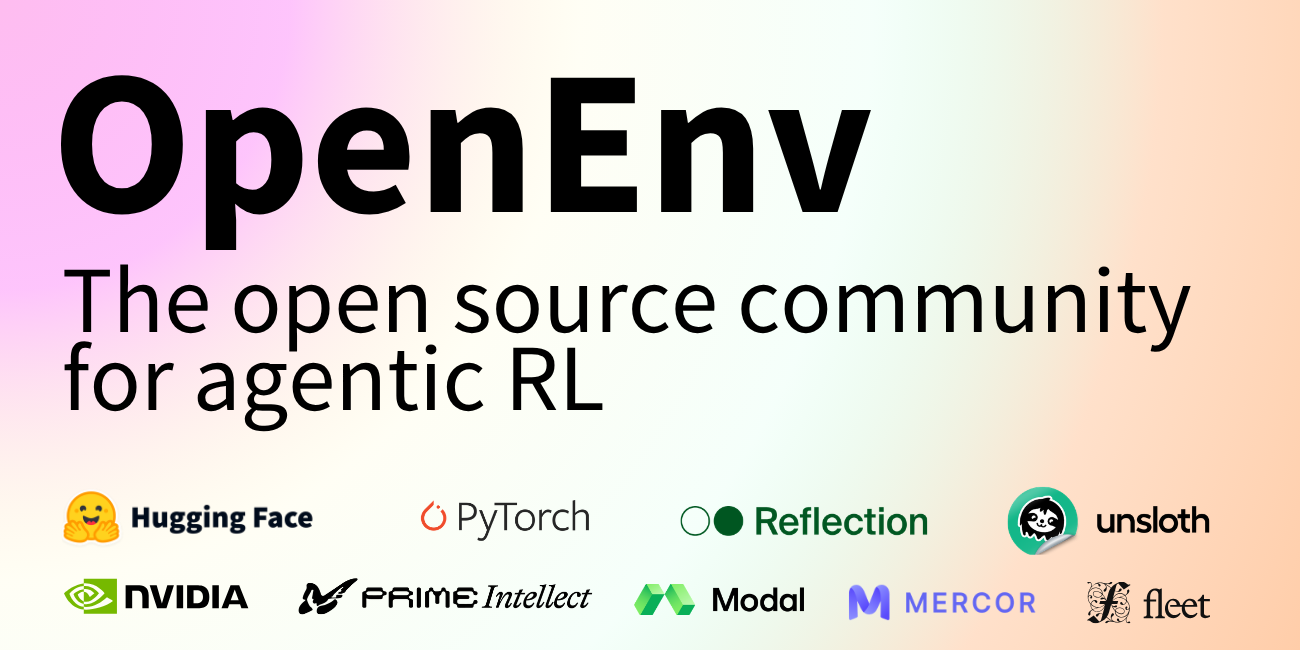
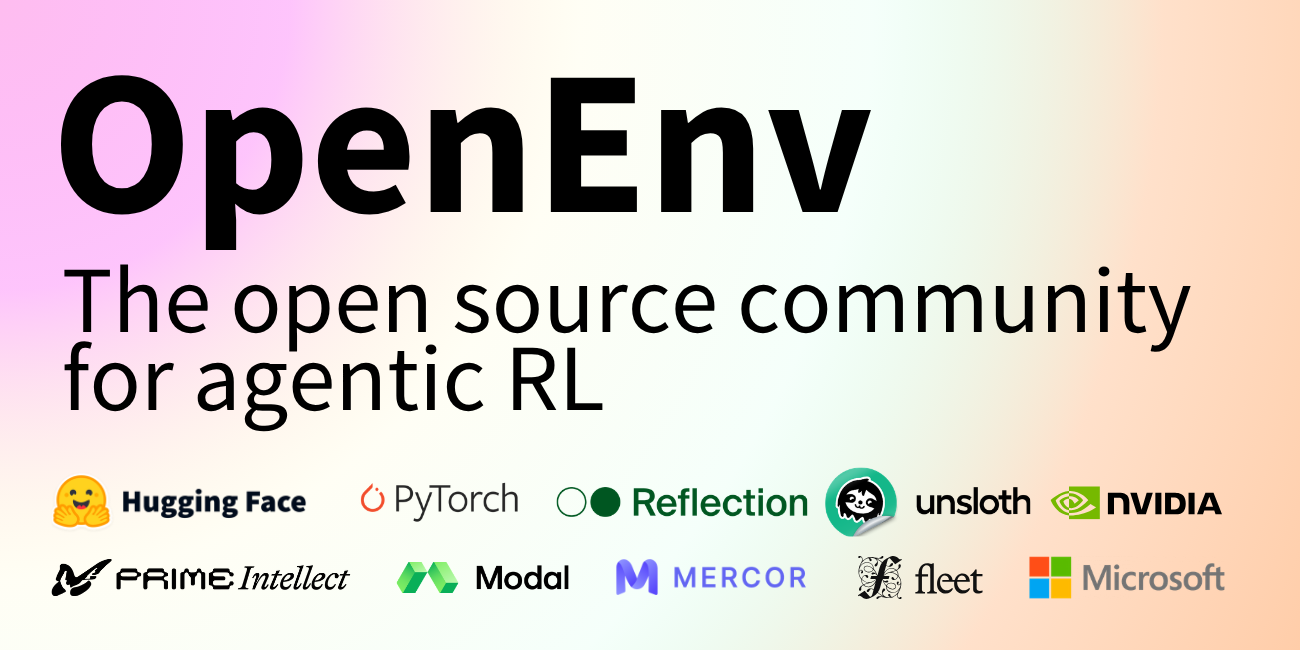
Add Microsoft to OpenEnv blog (#3421)
* add microsoft

* replace PR linkfix RFC section

* refine PRs

* update rfc7

* update image

Pull request: Add Microsoft to OpenEnv blog
This PR updates the OpenEnv Agentic RL blog post to include Microsoft in the coordinating committee and adds the corresponding author entry.

Changed region(s): [[0.0308, 0.7077, 0.9538, 0.9538]]

diff --git a/openenv-agentic-rl.md b/openenv-agentic-rl.md
@@ -12,6 +12,7 @@ authors:
 - user: cwing-nv
 - user: danielhanchen
 - user: andrewzhou
+- user: thegovind
 - user: shimmyshimmer
 - user: Hamid-Nazeri
 - user: Sanyam
@@ -27,7 +28,7 @@ authors:
 
 OpenEnv is a tool for creating an agentic execution environment like terminals, browsers, or anything an agent can interact with. And today, we’re excited to announce that OpenEnv is becoming even more open, to make the future of training agents open source.
 
-Starting today, OpenEnv will be coordinated by a committee that so far includes Meta-PyTorch, Reflection, Unsloth, Modal, Prime Intellect, Nvidia, Mercor, Fleet AI, and Hugging Face. `OpenEnv` now lives at [`huggingface/OpenEnv`](https://github.com/huggingface/OpenEnv)
+Starting today, OpenEnv will be coordinated by a committee that so far includes Meta-PyTorch, Reflection, Unsloth, Modal, Prime Intellect, Nvidia, Mercor, Fleet AI, Microsoft, and Hugging Face. `OpenEnv` now lives at [`huggingface/OpenEnv`](https://github.com/huggingface/OpenEnv)
 
 OpenEnv project is supported and adopted by some of the leading organizations in the AI ecosystem, including PyTorch Foundation, vLLM, SkyRL (UCB), Lightning AI, Axolotl AI, Stanford Scaling Intelligence Lab, Mithril, OpenMined, Scaler AI Labs, Scale AI, Patronus AI, Surge AI, Halluminate, Turing, Scorecard, and Snorkel AI.
 
@@ -65,8 +66,8 @@ Interop across env libraries. You can define and consume environments across dif
 
 Over the coming months we will focus on the things that turn OpenEnv from a fast-growing project into a dependable standard:
 
-1. Tasksets via datasets: wiring environment tasks to Hugging Face datasets so environments and benchmarks compose cleanly ([RFC 006](https://github.com/huggingface/OpenEnv/pull/731)).
-2. External rewards: letting rewards be defined in whichever library you already use, with OpenEnv as the deployment layer ([RFC 007](https://github.com/huggingface/OpenEnv/pull/727)).
+1. External rewards: letting rewards be defined in whichever library you already use, with OpenEnv as the deployment layer ([RFC 006](https://github.com/huggingface/OpenEnv/pull/794)).
+2. Tasksets via datasets: wiring environment tasks to Hugging Face datasets so environments and benchmarks compose cleanly ([RFC 007](https://github.com/huggingface/OpenEnv/pull/795)).
 3. Continued Harness integration: first-class support for agentic harnesses.
 4. End-to-end examples: full training and evaluation walkthroughs in TRL, Unsloth, and beyond.
 5. Auto-validation: measure environment quality and contribution to model learning. This will give the community a scalable way to evaluate their environments and drive up quality (think hackathons!). [RFC 008](https://github.com/huggingface/OpenEnv/issues/778).